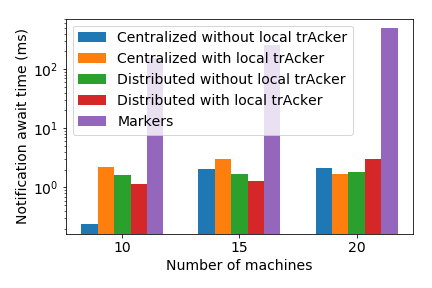
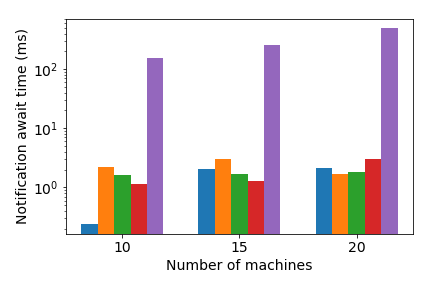
Single legend for 6 plots

Changed region(s): [[0.1806, 0.0625, 0.8125, 0.5]]

diff --git a/2019/acker/fs-acker-experiments.tex b/2019/acker/fs-acker-experiments.tex
@@ -33,6 +33,22 @@ Network traffic was measured in number of separate service messages sent over th
             \caption{Traffic by tracking frequency}
 	\end{subfigure}
     \caption{Service traffic of various trackings}
+% https://gist.github.com/faucct/032aaf6240db361d30a184b1d7bf3c8e
+    \begin{subfigure}[b]{0.32\textwidth}
+            \includegraphics[width=0.99\textwidth]{pics/notification_await_time_by_graph_size_bars.png}
+            \caption{Notification latency by graph size}
+    \end{subfigure}
+    \hspace{5mm}
+    \begin{subfigure}[b]{0.32\textwidth}
+            \includegraphics[width=0.99\textwidth]{pics/notification_await_time_by_number_of_machines_bars.png}
+            \caption{Notification latency by number of virtual machines}
+    \end{subfigure}
+    \hspace{5mm}
+    \begin{subfigure}[b]{0.32\textwidth}
+            \includegraphics[width=0.99\textwidth]{pics/notification_await_time_by_tracking_frequency_bars.png}
+            \caption{Notification latency by tracking frequency}
+	\end{subfigure}
+    \caption{Notification latency of various trackings}
 \end{figure*}
 
 \subsubsection{Overhead on throughput} \label{overhead}
@@ -50,25 +66,6 @@ In those experiments we compare maximum throughput of system without tracking to
 \subsubsection{Notification latency}
 
 Notification latency was measured as a time between moments of Bench Stand receiving last elements in tracking windows and notifications for that window.
-
-% https://gist.github.com/faucct/032aaf6240db361d30a184b1d7bf3c8e
-\begin{figure*}[t!]
-    \begin{subfigure}[b]{0.32\textwidth}
-            \includegraphics[width=0.99\textwidth]{pics/notification_await_time_by_graph_size_bars.png}
-            \caption{Notification latency by graph size}
-    \end{subfigure}
-    \hspace{5mm}
-    \begin{subfigure}[b]{0.32\textwidth}
-            \includegraphics[width=0.99\textwidth]{pics/notification_await_time_by_number_of_machines_bars.png}
-            \caption{Notification latency by number of virtual machines}
-    \end{subfigure}
-    \hspace{5mm}
-    \begin{subfigure}[b]{0.32\textwidth}
-            \includegraphics[width=0.99\textwidth]{pics/notification_await_time_by_tracking_frequency_bars.png}
-            \caption{Notification latency by tracking frequency}
-	\end{subfigure}
-    \caption{Notification latency of various trackings}
-\end{figure*}
 
 \subsubsection{Scalability}
 
